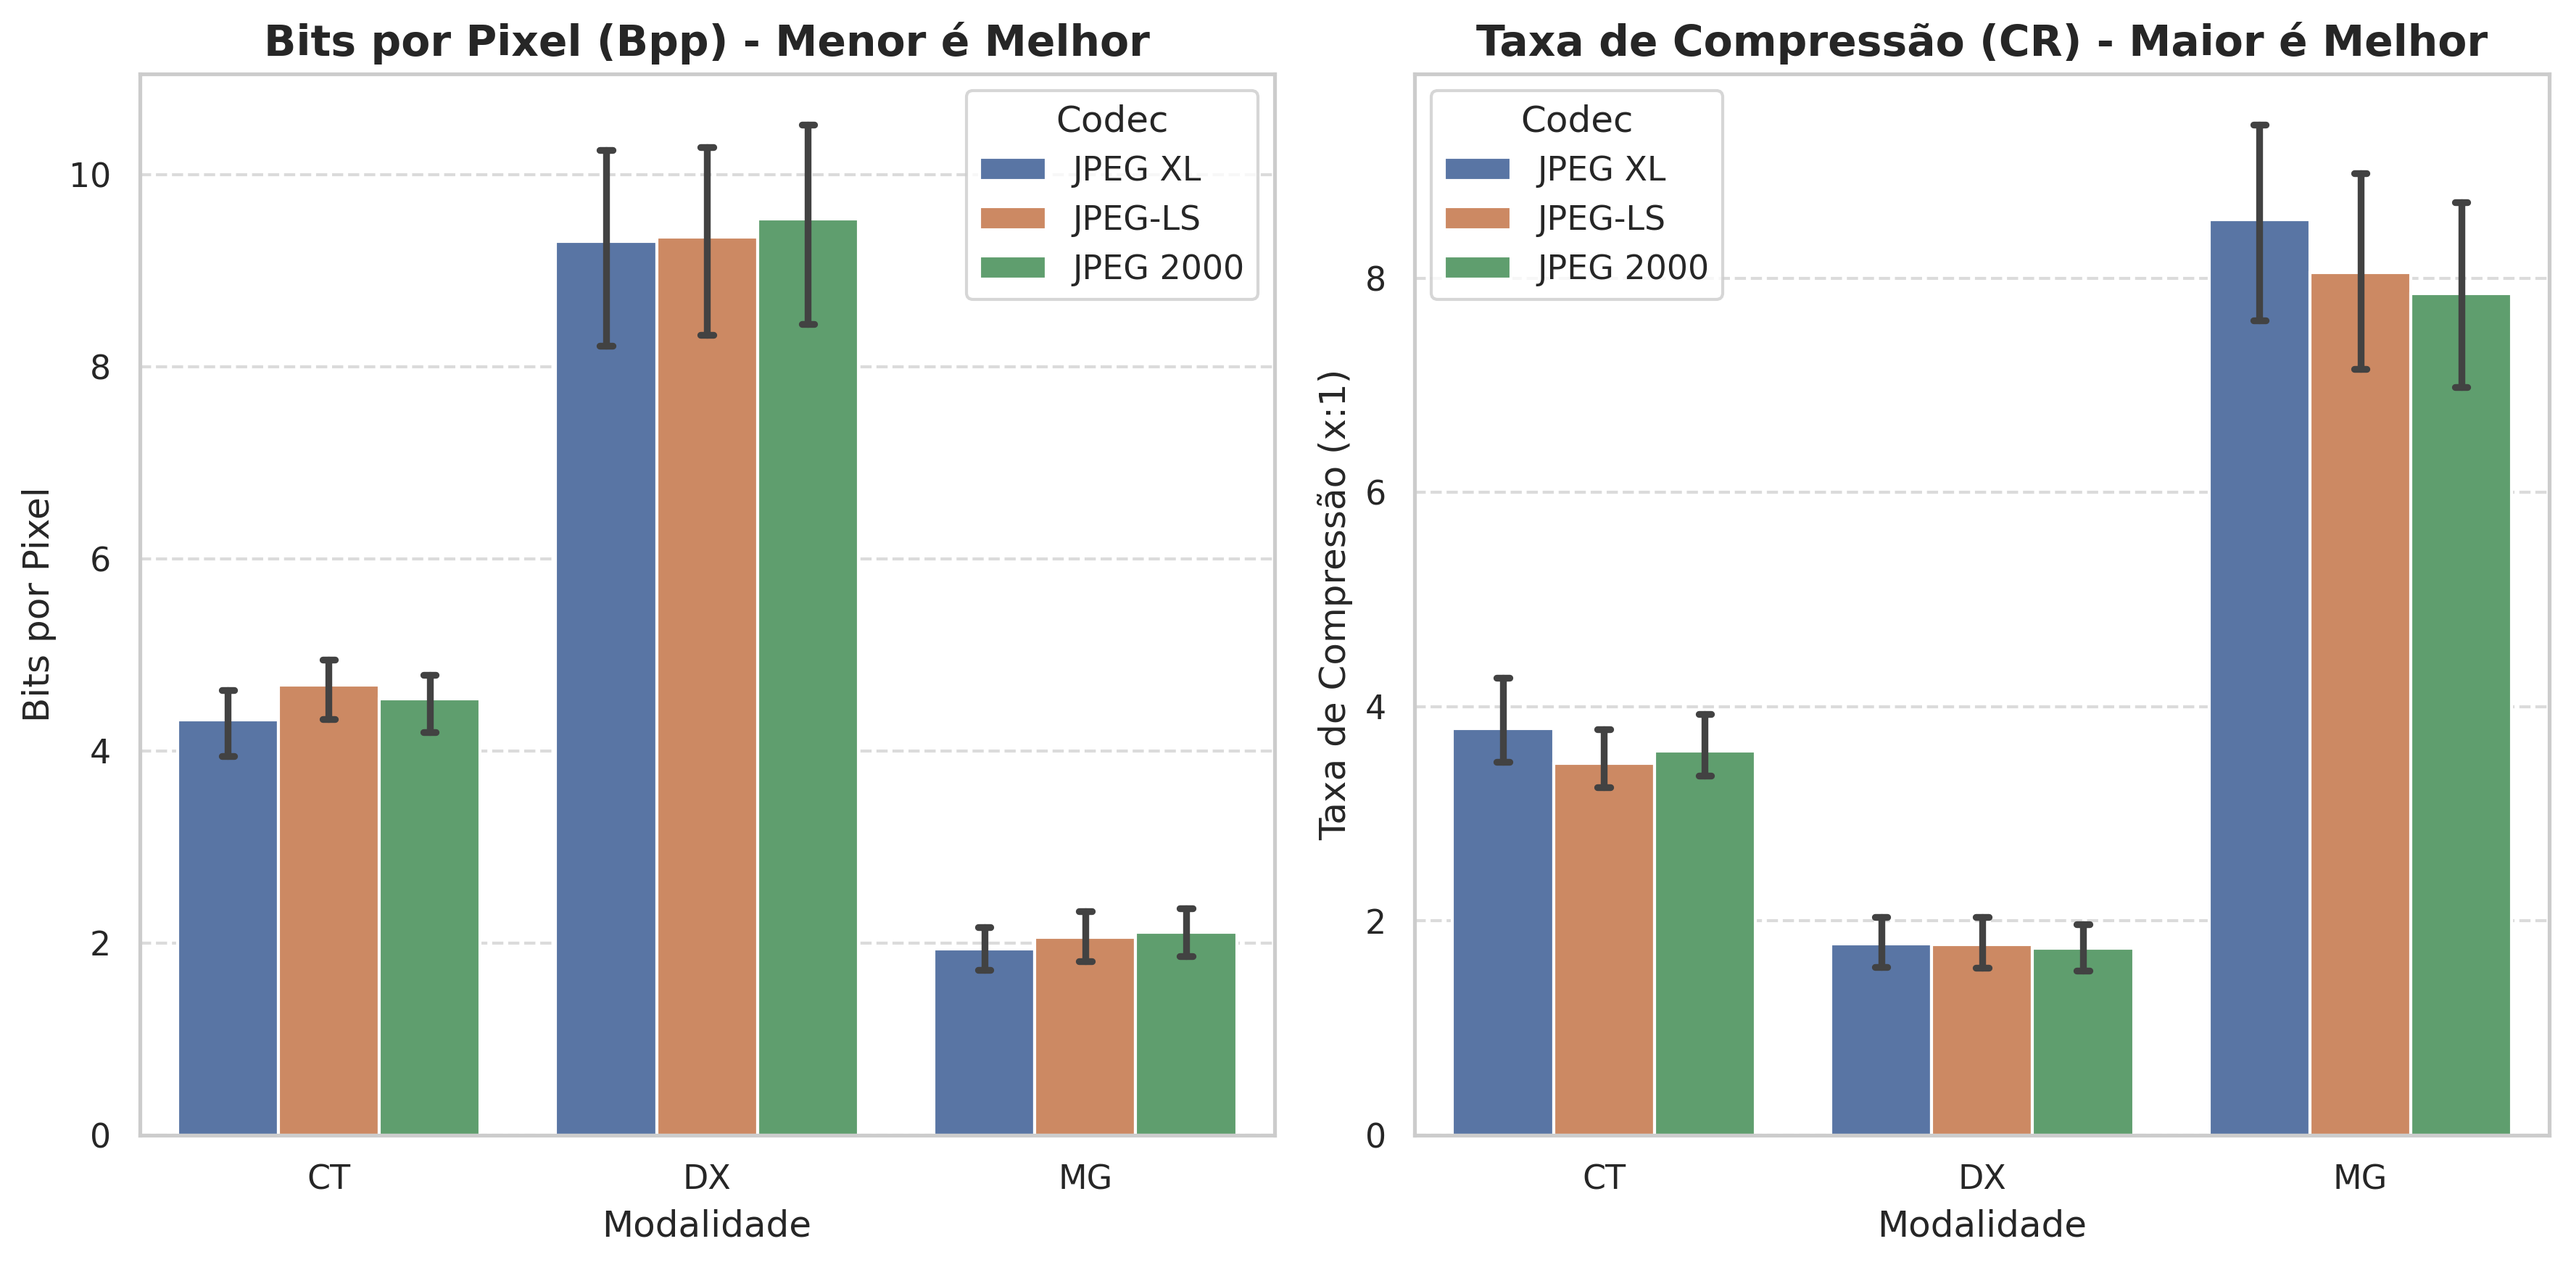
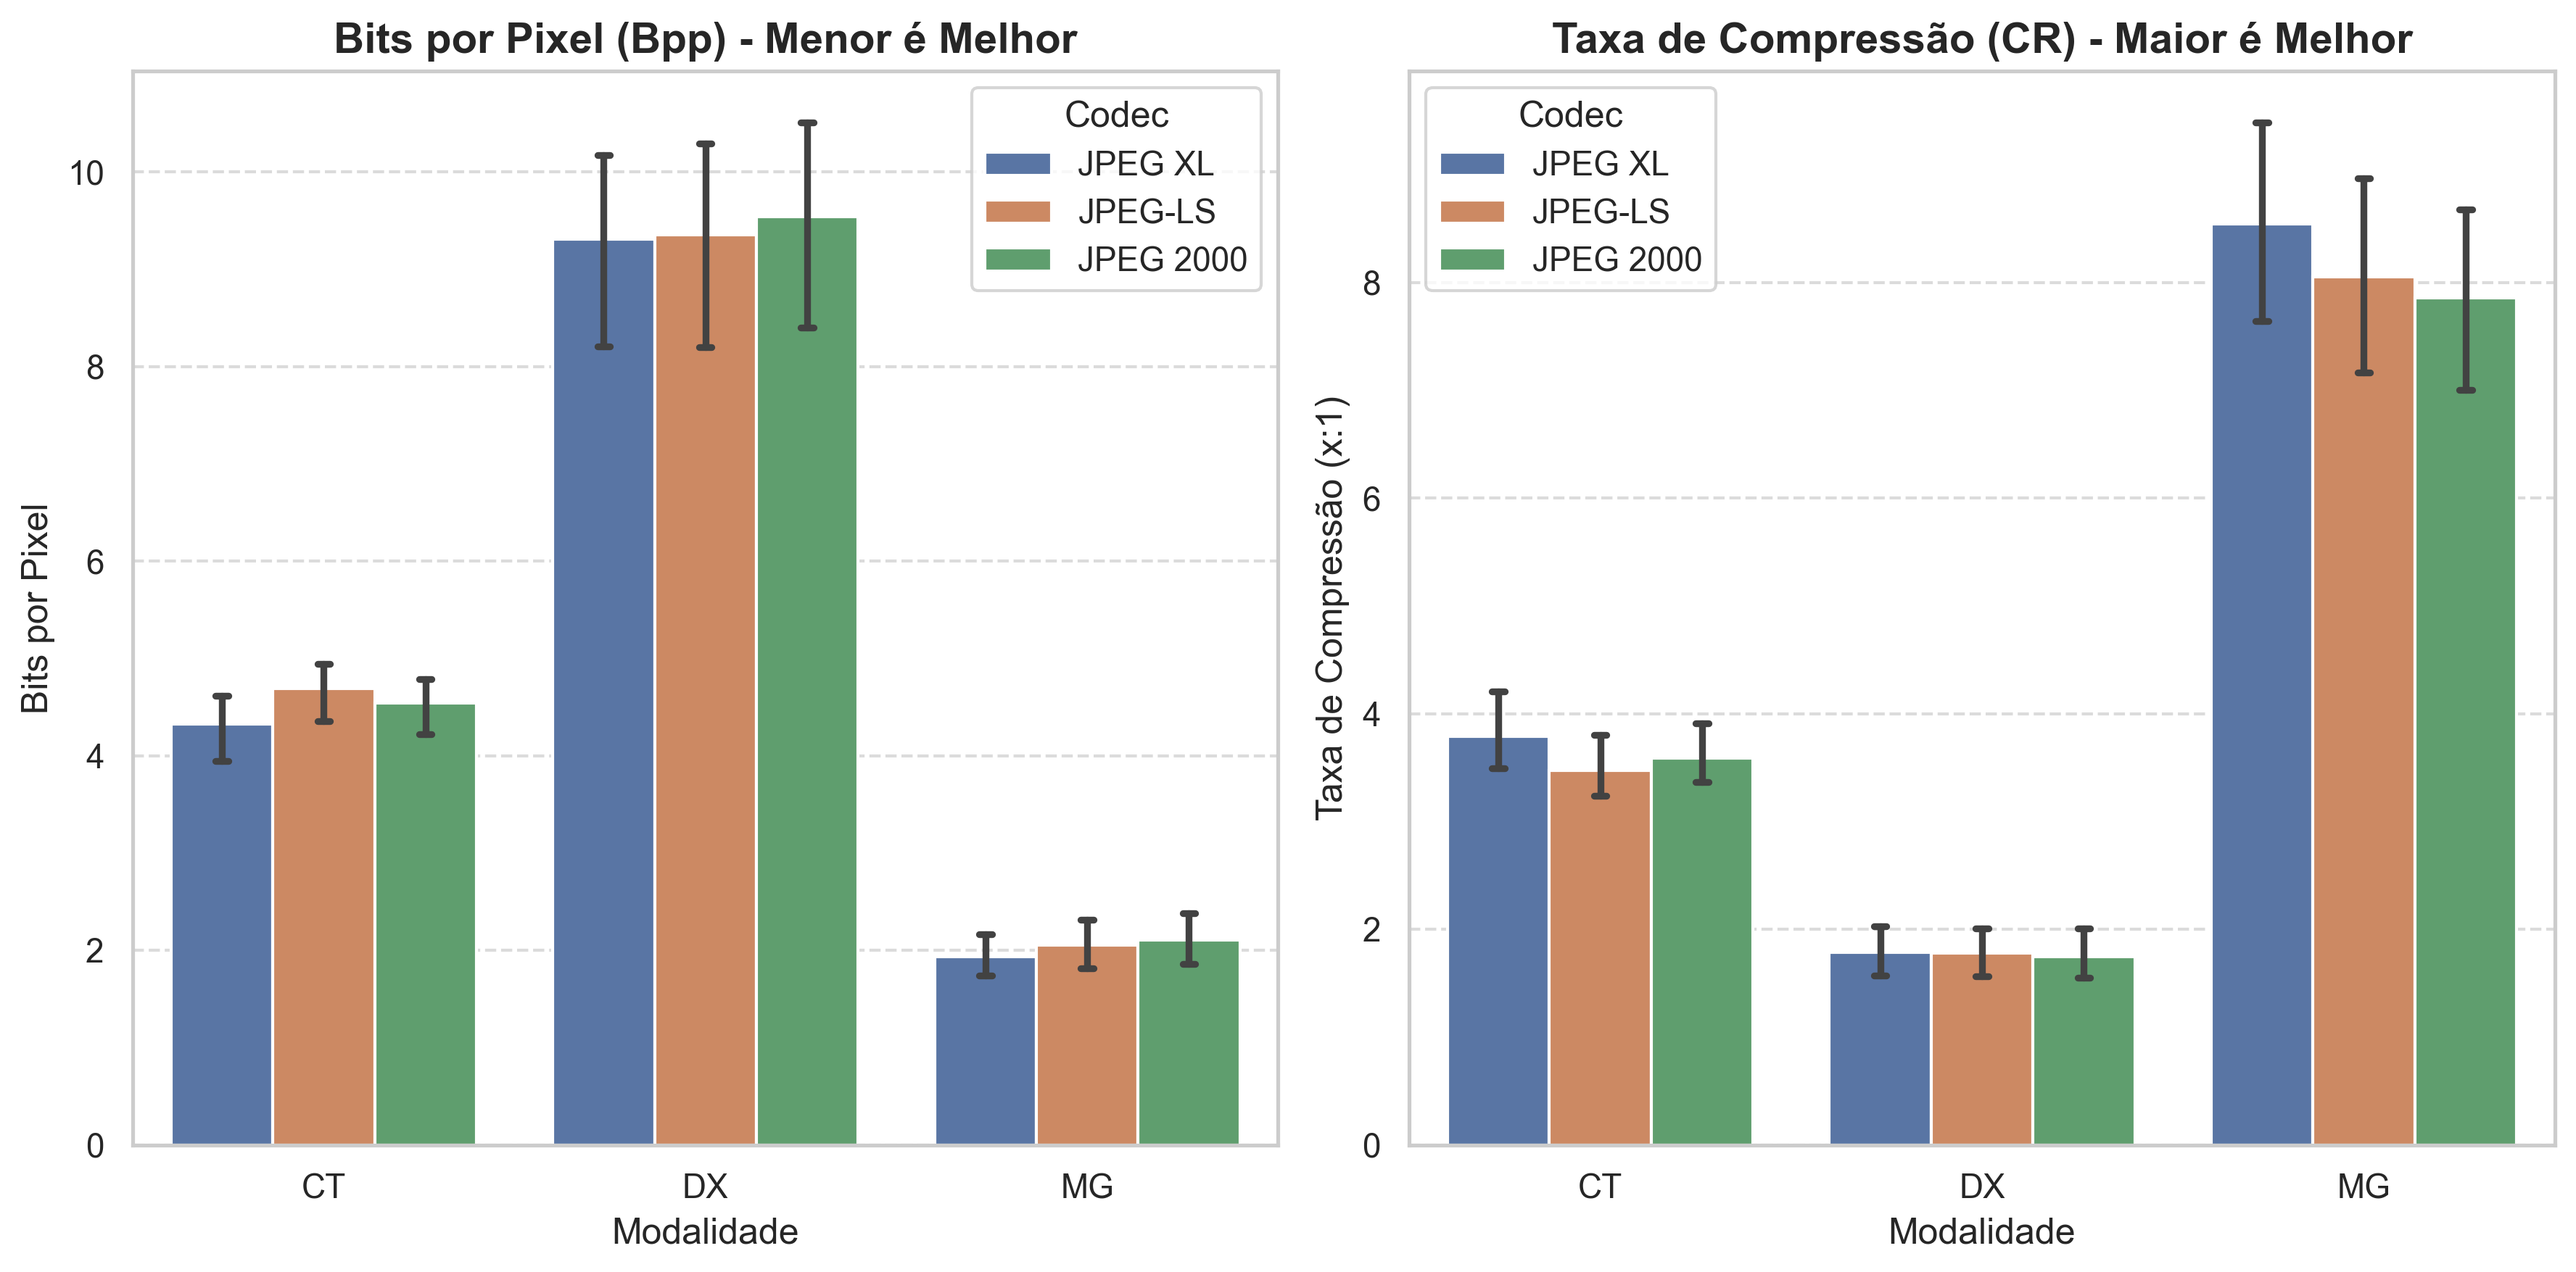
mais gráficos

diff --git a/src/codec.py b/src/codec.py
@@ -8,11 +8,11 @@ import imagecodecs
 import glob
 import pandas as pd
 import numpy as np
-from datetime import datetime
-from typing import List
-
 import matplotlib.pyplot as plt
 import pydicom
+
+from datetime import datetime
+from typing import List
 from pydicom.dataset import FileDataset, FileMetaDataset
 from pydicom.uid import ExplicitVRLittleEndian, generate_uid
 from skimage.metrics import peak_signal_noise_ratio as psnr, structural_similarity as ssim, mean_squared_error as mse
@@ -959,9 +959,9 @@ def run_full_experiment_mode(output_dir, dataset_dir, codes, betas, block_size, 
 ### Bloco Principal de Controle de Execução
 if __name__ == "__main__":
     
-    MODE = 'EXPERIMENT' # Opções: 'EXPERIMENT' ou 'SINGLE_TEST'
+    MODE = 'SINGLE_TEST' # Opções: 'EXPERIMENT' ou 'SINGLE_TEST'
     
-    SINGLE_TEST_FILE = "images/MG/000.dcm"
+    SINGLE_TEST_FILE = "images/CT/003.dcm"
     SINGLE_TEST_CODEC = 'jxl'
     
     if MODE == 'EXPERIMENT':

diff --git a/src/analysis.py b/src/analysis.py
@@ -79,6 +79,9 @@ def plot_bpp_cr_comparison():
     plt.show()
 
 
+    
+
+
 def plot_encoding_speed():
     # 1. Configuração do Caminho do Arquivo
     csv_path = 'results_sequential.csv'
